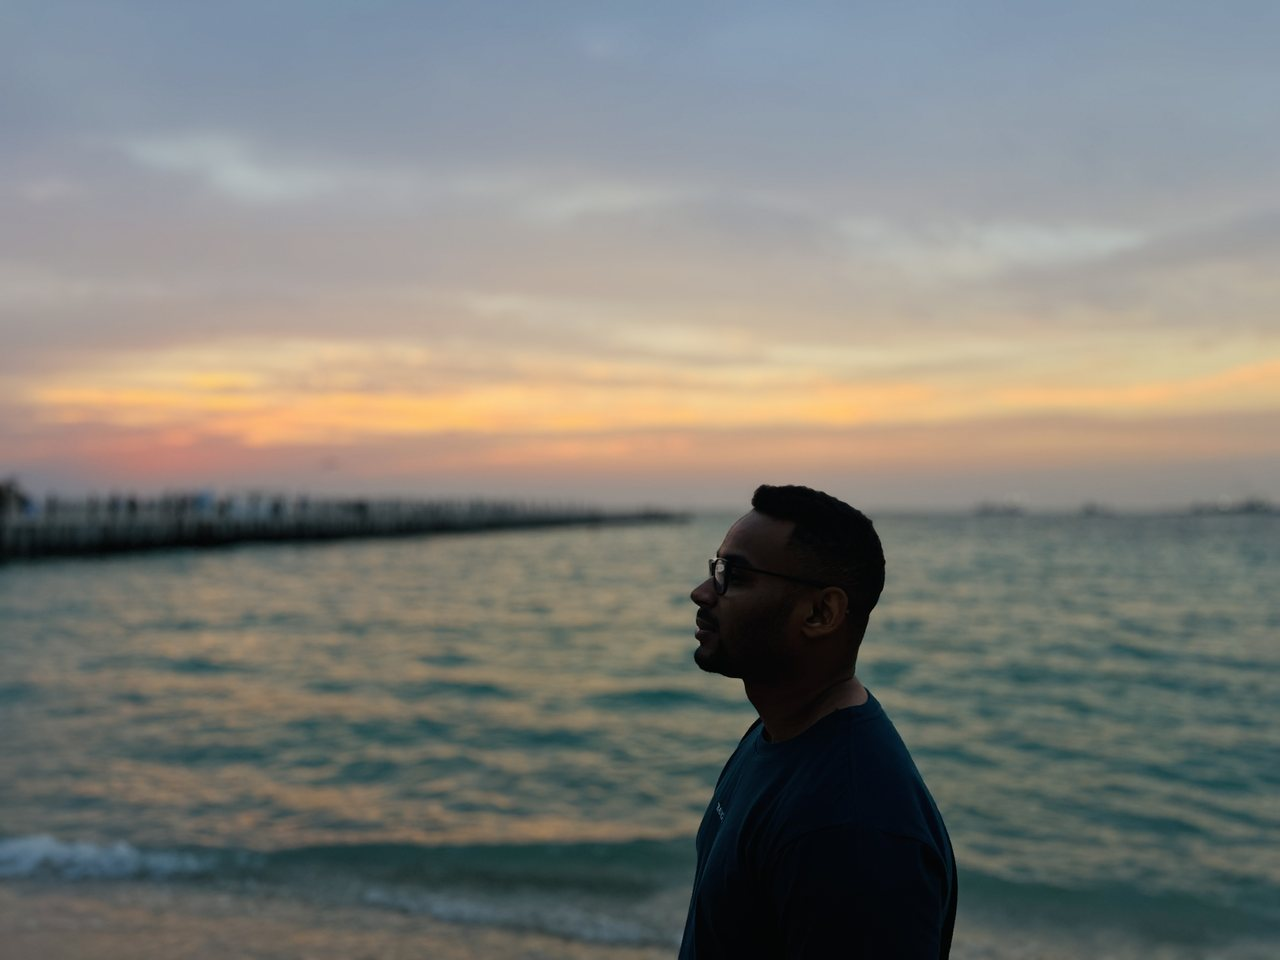
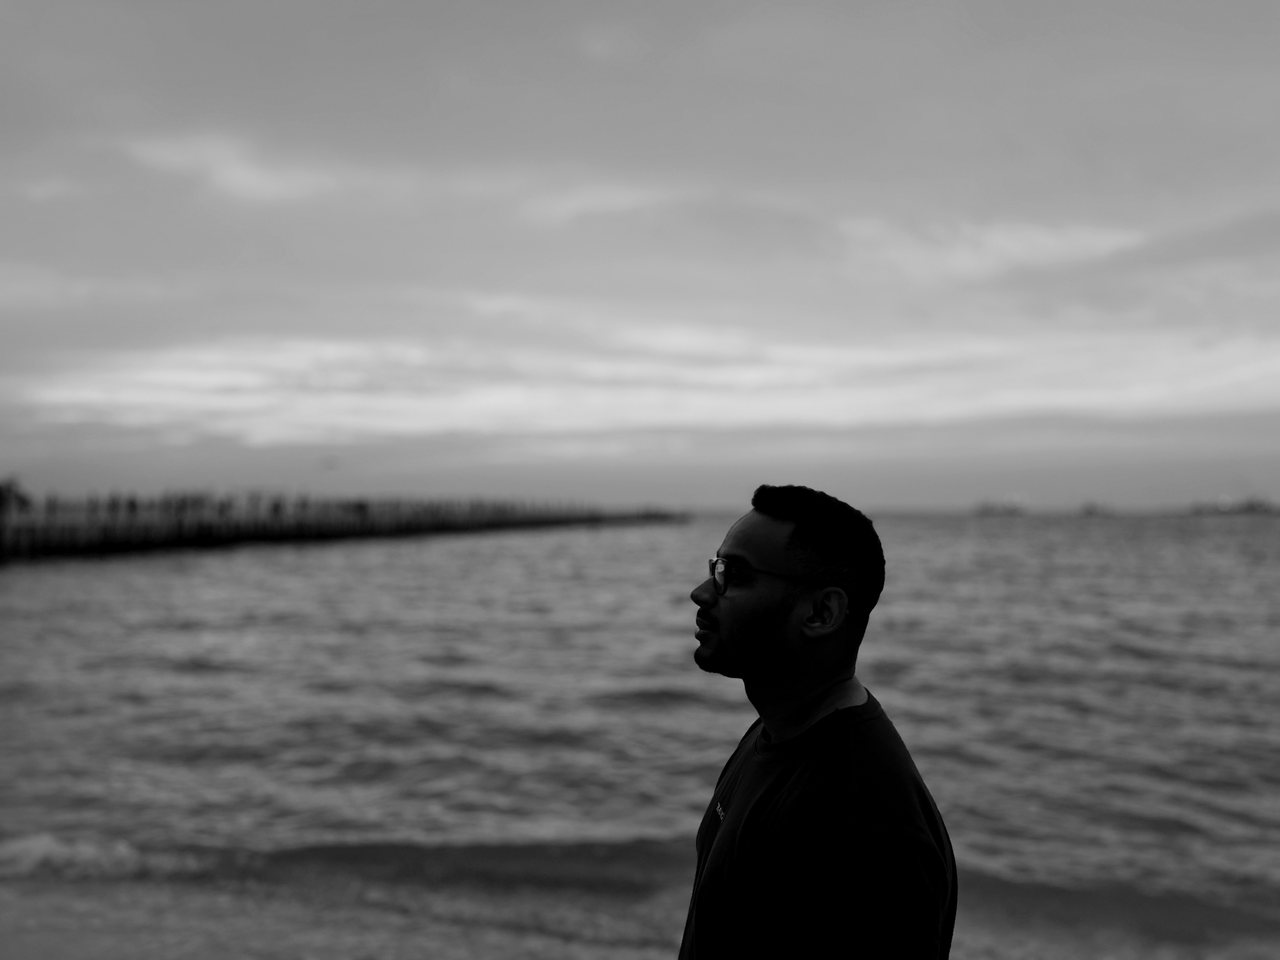
About plate: bake the monochrome into the file

diff --git a/about.html b/about.html
@@ -106,7 +106,7 @@
          monochrome like the rest of the chrome. The picture is the room the
          words sit in, not a subject of its own. -->
     <div class="pagehead__plate" aria-hidden="true">
-      <img src="/assets/portrait/beach-1280.jpg?h=547318ed" srcset="/assets/portrait/beach-768.jpg?h=36d36d2c 768w, /assets/portrait/beach-1280.jpg?h=547318ed 1280w, /assets/portrait/beach-1920.jpg?h=0e67f40b 1920w" sizes="100vw" width="1280" height="960" alt="" fetchpriority="high" decoding="async">
+      <img src="/assets/portrait/beach-1280.jpg?h=a3574a33" srcset="/assets/portrait/beach-768.jpg?h=d141285a 768w, /assets/portrait/beach-1280.jpg?h=a3574a33 1280w, /assets/portrait/beach-1920.jpg?h=181b999a 1920w" sizes="100vw" width="1280" height="960" alt="" fetchpriority="high" decoding="async">
     </div>
     <p class="hero__eyebrow">Background</p>
     <h1 class="pagehead__title">I direct, shoot, cut, grade and finish. <em>Mostly I listen.</em></h1>
